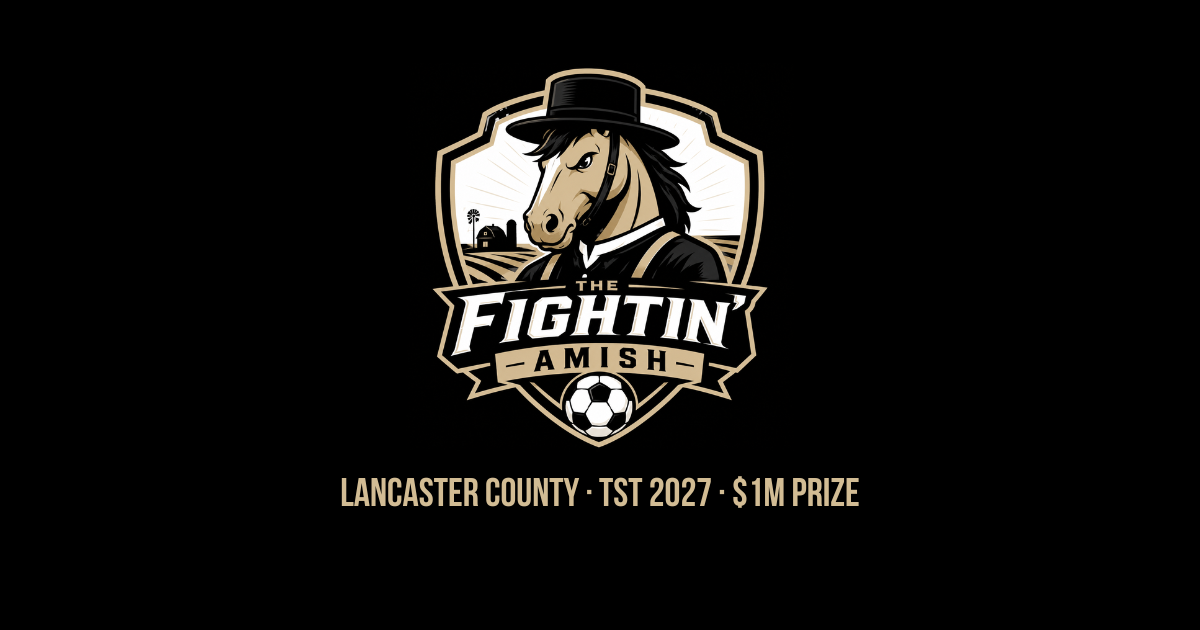
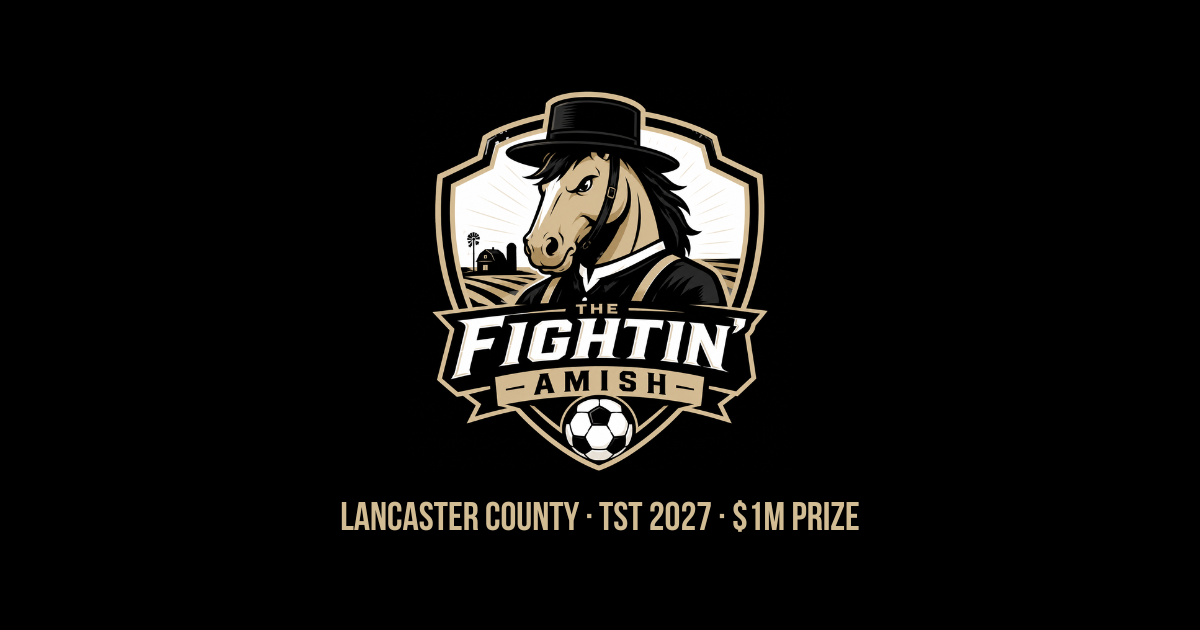
chore: update app content and deploy assets

Changed region(s): [[0.2775, 0.0905, 0.7092, 0.8444]]

diff --git a/src/App.jsx b/src/App.jsx
@@ -680,17 +680,10 @@ function stripHtml(value) {
   return value.replace(/<[^>]*>?/g, "");
 }
 
-// x-www-form-urlencoded body for the Netlify Forms POST.
-function encodeForm(data) {
-  return Object.keys(data)
-    .map((k) => encodeURIComponent(k) + "=" + encodeURIComponent(data[k]))
-    .join("&");
-}
-
 function ContactSection() {
   const [formData, setFormData] = useState({ name: "", email: "", company: "", message: "", tier: "barn-raiser" });
   const [errors, setErrors] = useState({});
-  const [submitError, setSubmitError] = useState("");
+  const [error, setError] = useState("");
   const [submitted, setSubmitted] = useState(false);
   const width = useWindowWidth();
   const isMobile = width < 481;
@@ -718,7 +711,7 @@ function ContactSection() {
     return e;
   };
 
-  const handleSubmit = (e) => {
+  const handleSubmit = async (e) => {
     if (e) e.preventDefault();
     const found = validate();
     if (Object.keys(found).length > 0) {
@@ -726,17 +719,33 @@ function ContactSection() {
       return;
     }
     setErrors({});
-    setSubmitError("");
-    fetch("/", {
-      method: "POST",
-      headers: { "Content-Type": "application/x-www-form-urlencoded" },
-      body: encodeForm({ "form-name": "sponsor-inquiry", "bot-field": "", ...formData }),
-    })
-      .then((res) => {
-        if (!res.ok) throw new Error("Submission failed");
+    setError("");
+
+    // NOTE: use a distinct local name (`params`) — naming this `formData`
+    // would shadow the component state and read undefined off URLSearchParams.
+    const params = new URLSearchParams();
+    params.append("form-name", "sponsor-inquiry");
+    params.append("bot-field", "");
+    params.append("name", formData.name);
+    params.append("email", formData.email);
+    params.append("company", formData.company);
+    params.append("tier", formData.tier);
+    params.append("message", formData.message);
+
+    try {
+      const response = await fetch("/", {
+        method: "POST",
+        headers: { "Content-Type": "application/x-www-form-urlencoded" },
+        body: params.toString(),
+      });
+      if (response.ok) {
         setSubmitted(true);
-      })
-      .catch(() => setSubmitError("Something went wrong sending your inquiry. Please try again."));
+      } else {
+        setError("Something went wrong. Please try again.");
+      }
+    } catch {
+      setError("Something went wrong. Please try again.");
+    }
   };
 
   const inputStyle = (field) => ({
@@ -891,9 +900,9 @@ function ContactSection() {
               {errors.message && <span role="alert" style={errorTextStyle}>{errors.message}</span>}
             </div>
 
-            {submitError && (
+            {error && (
               <div role="alert" style={{ ...errorTextStyle, marginBottom: 16, fontSize: 13 }}>
-                {submitError}
+                {error}
               </div>
             )}
 